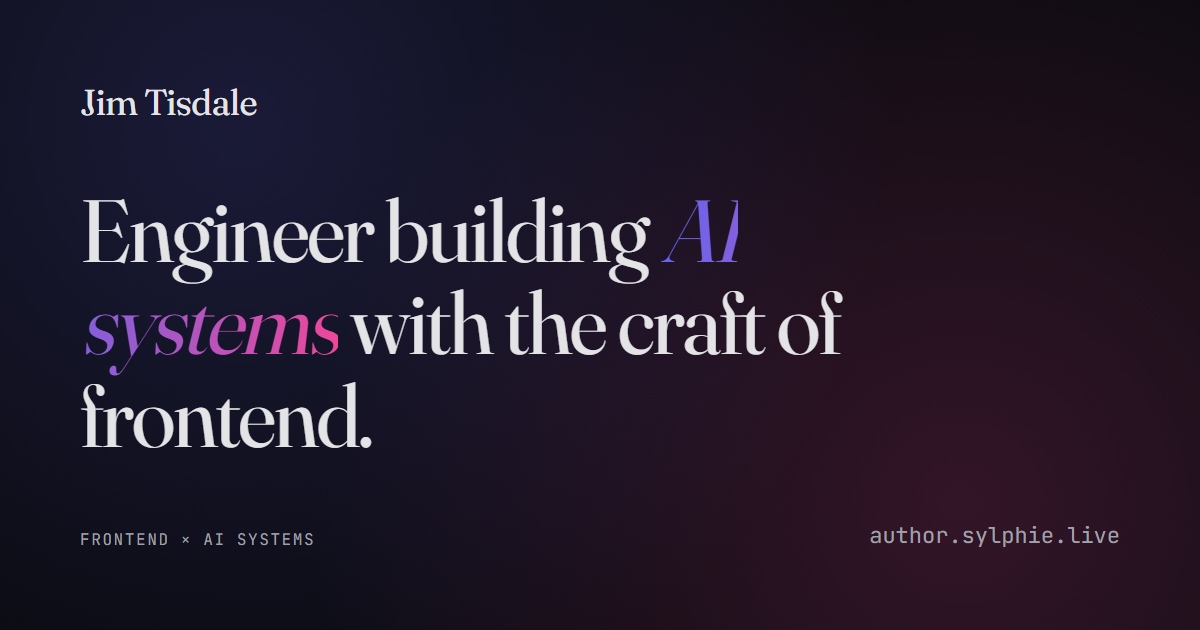
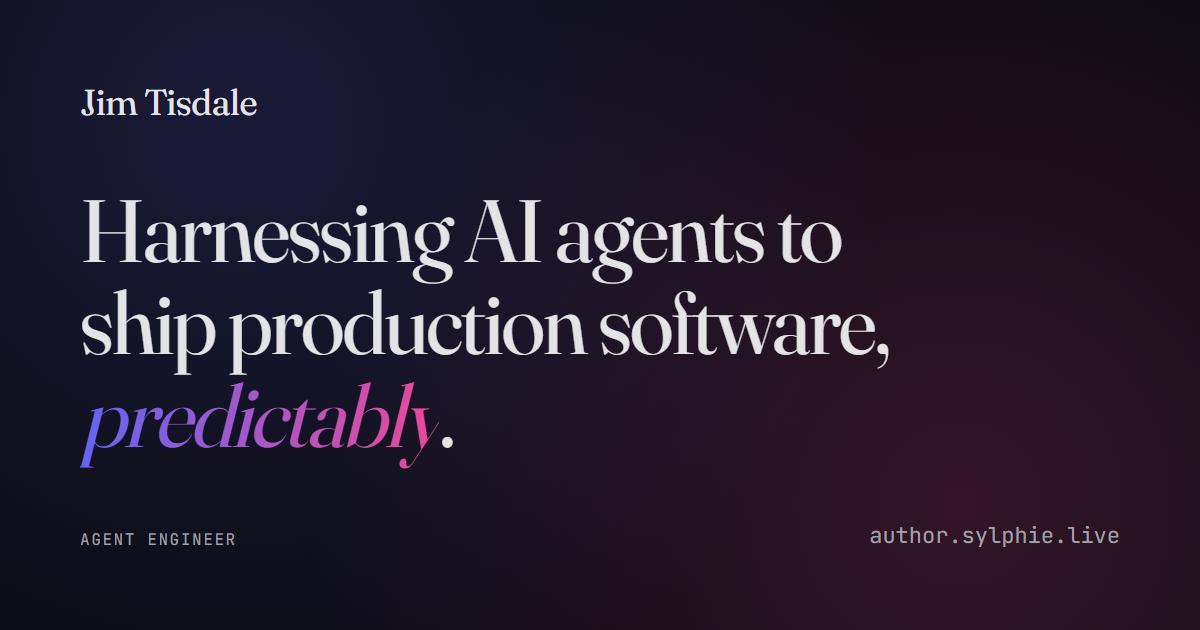
Drive OG image copy from i18n; regen on every Railway build; cache-bust URL
Three changes so the link-preview thumbnail stays in sync with site copy:

1. scripts/generate-og.mjs now reads hero.tagline + hero.eyebrow from
   src/locales/en/common.json at render time and injects them into the
   og-source.html template (converting <highlight>X</highlight> to the
   gradient span). The static text in og-source.html is now preview-only
   for designers — the rendered PNG always uses live i18n.

2. package.json build script runs node scripts/generate-og.mjs before
   prerender.mjs, so every Railway deploy regenerates the PNG from the
   current locales. Impossible to drift again.

3. og:image URL in index.html and src/lib/use-head.ts now carries
   ?v=2026-05-13. The previous PNG had jim.sylphie.live + old hero copy
   cached by Discord/iMessage/etc.; bumping the query forces a re-scrape.
   Manual bump on future copy changes is the standard pattern.

Changed region(s): [[0.0617, 0.3016, 0.74, 0.754], [0.1233, 0.8444, 0.2775, 0.8746], [0.0617, 0.8444, 0.0925, 0.8746]]

diff --git a/index.html b/index.html
@@ -14,7 +14,7 @@
     <meta property="og:title" content="Jim Tisdale" />
     <meta property="og:description" content="Engineer building AI systems with the craft of frontend." />
     <meta property="og:url" content="https://author.sylphie.live/" />
-    <meta property="og:image" content="https://author.sylphie.live/og-default.png" />
+    <meta property="og:image" content="https://author.sylphie.live/og-default.png?v=2026-05-13" />
     <meta property="og:image:width" content="1200" />
     <meta property="og:image:height" content="630" />
     <meta property="og:image:alt" content="Jim Tisdale, Engineer building AI systems with the craft of frontend." />
@@ -24,7 +24,7 @@
     <meta name="twitter:card" content="summary_large_image" />
     <meta name="twitter:title" content="Jim Tisdale" />
     <meta name="twitter:description" content="Engineer building AI systems with the craft of frontend." />
-    <meta name="twitter:image" content="https://author.sylphie.live/og-default.png" />
+    <meta name="twitter:image" content="https://author.sylphie.live/og-default.png?v=2026-05-13" />
     <link rel="preconnect" href="https://fonts.googleapis.com" />
     <link rel="preconnect" href="https://fonts.gstatic.com" crossorigin />
     <link

diff --git a/public/og-source.html b/public/og-source.html
@@ -100,11 +100,11 @@
       <div class="grain"></div>
       <div class="brand">Jim Tisdale</div>
       <h1>
-        Engineer building <span class="grad">AI systems</span> with the craft of
-        frontend.
+        Harnessing AI agents to ship production software,
+        <span class="grad">predictably</span>.
       </h1>
       <div class="footer">
-        <span class="eyebrow">Frontend × AI systems</span>
+        <span class="eyebrow">Agent Engineer</span>
         <span class="url">author.sylphie.live</span>
       </div>
     </div>

diff --git a/src/lib/use-head.ts b/src/lib/use-head.ts
@@ -2,7 +2,7 @@ import { useEffect } from "react";
 
 const SITE_NAME = "Jim Tisdale";
 const SITE_URL = "https://author.sylphie.live";
-const DEFAULT_OG_IMAGE = `${SITE_URL}/og-default.png`;
+const DEFAULT_OG_IMAGE = `${SITE_URL}/og-default.png?v=2026-05-13`;
 
 export type HeadConfig = {
   title?: string;
